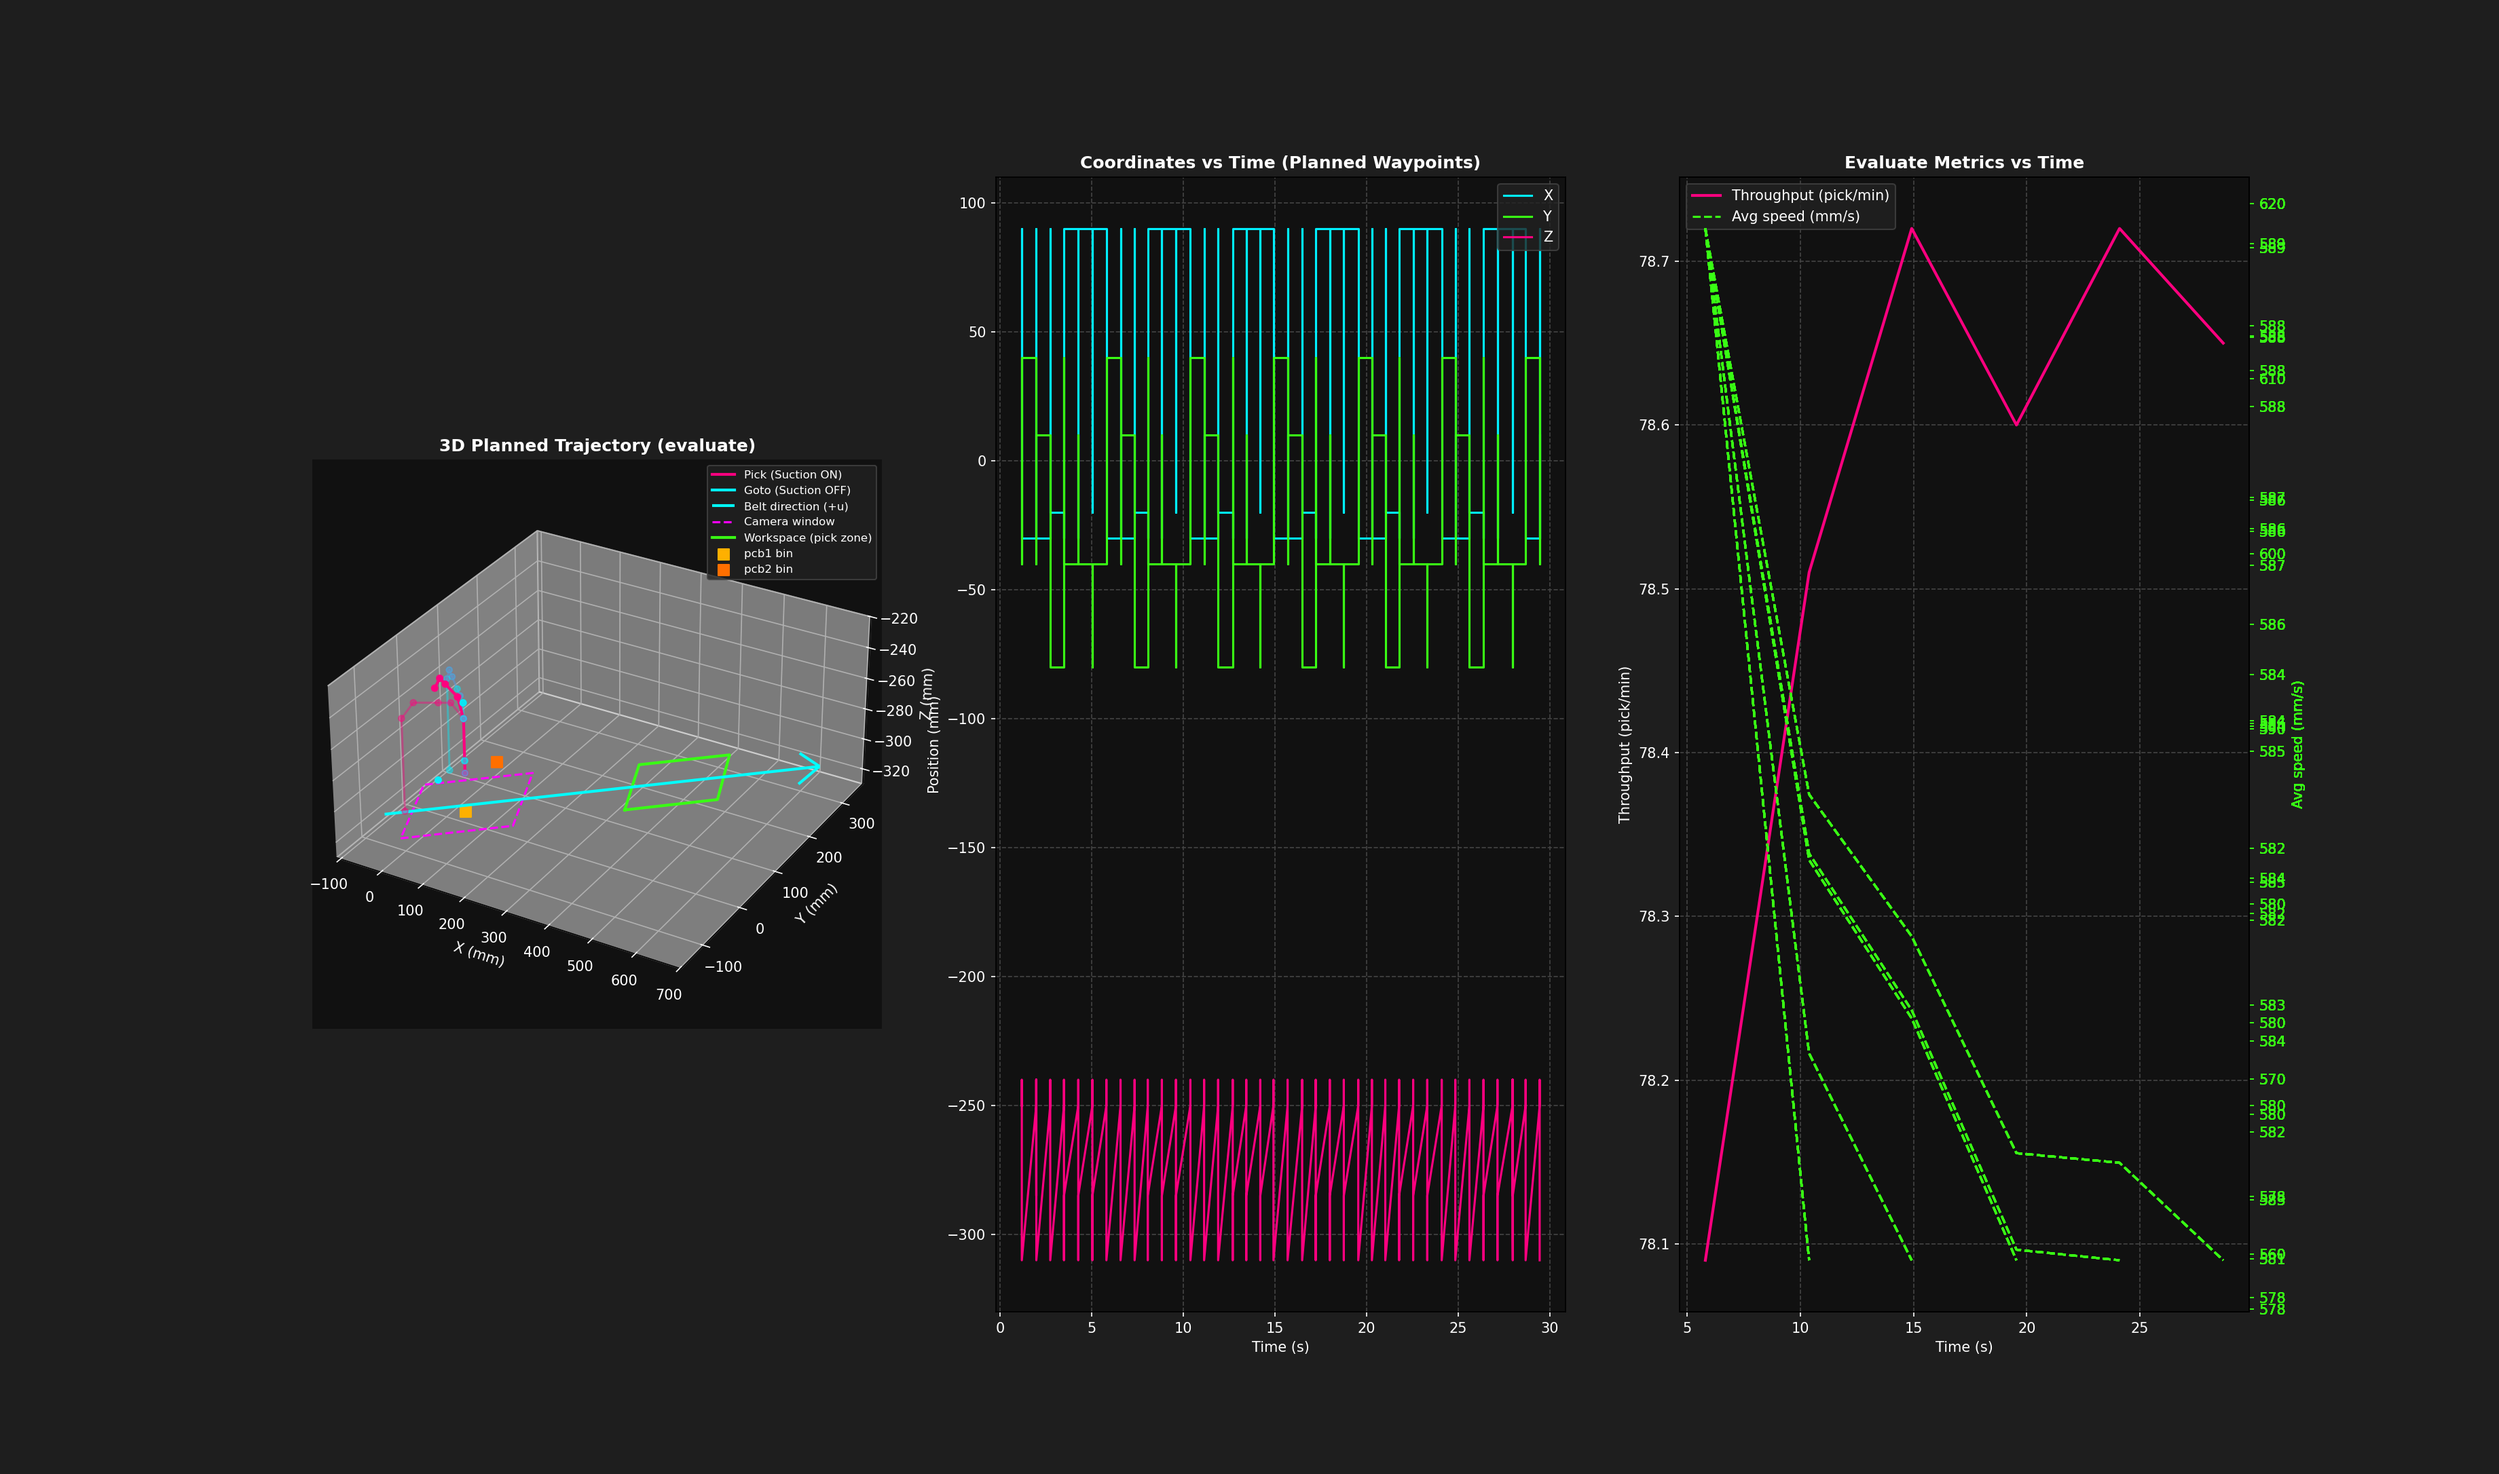
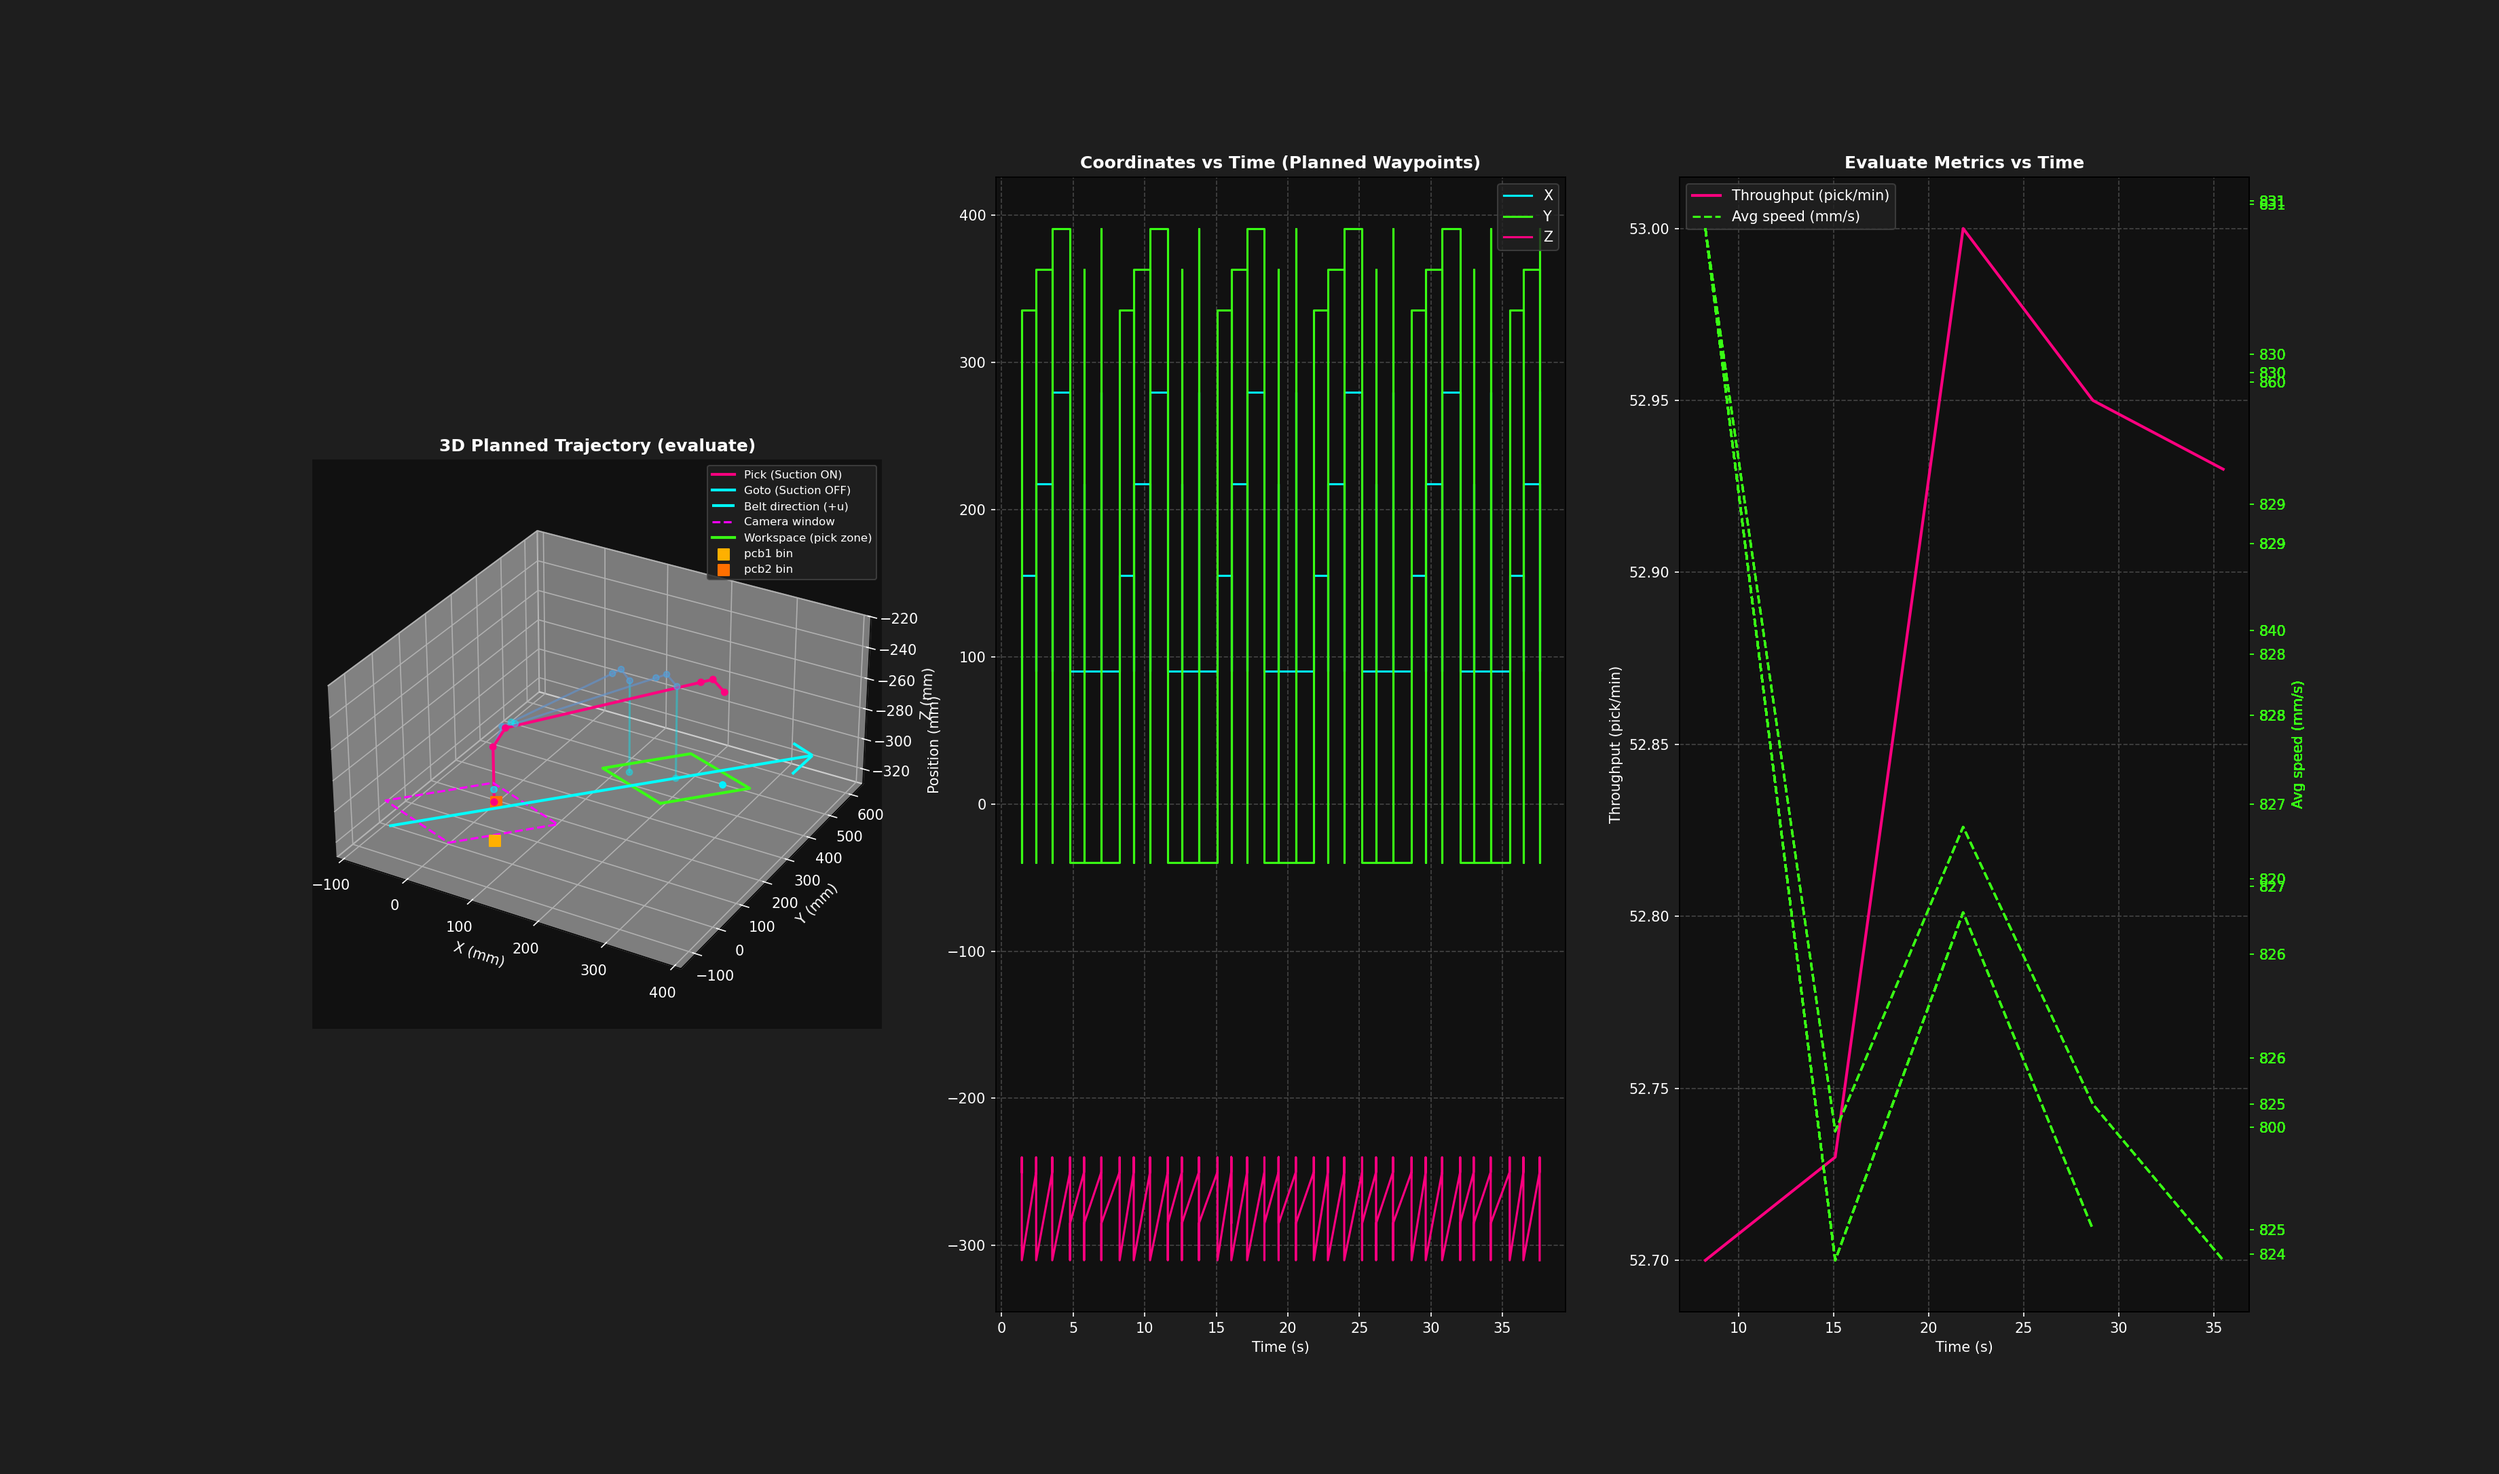
phrase test

diff --git a/doc/conveyor_frame_theory.md b/doc/conveyor_frame_theory.md
@@ -417,6 +417,13 @@ aligned; no padding is needed or inserted).
 
 ---
 
+## 7.1 Frames Convention (per `doc/frames.png`)
+
+- Camera frame and conveyor frame share the paper-aligned axes: `x_cam = x_con` horizontal-right, `y_cam = y_con` vertical-up.
+- Robot frame is rotated about Z by angle θ relative to the conveyor frame. `F_CONVEYOR_TO_ROBOT` in [modules/conveyor.py](../modules/conveyor.py) has first column `(sin θ, cos θ)` and second column `(-cos θ, sin θ)` to reflect this; the translation column `(t_x, t_y)` is a placeholder until physical calibration.
+- Consequence: any "drop point" used by simulations or scenarios should be expressed in C-frame `(u, v)` and projected through F at runtime. Hardcoding R-frame coordinates couples the test to the placeholder `(t_x, t_y)` and produces visually-misleading trajectories.
+- `config.json.conveyor.accuracy_points_uv` (C-frame) is now the preferred source of evaluate-scenario targets; the legacy R-frame `scheduler.accuracy_points` remains only as a fallback.
+
 ## 8. Implementation Order
 
 | Phase | Scope | Status |
